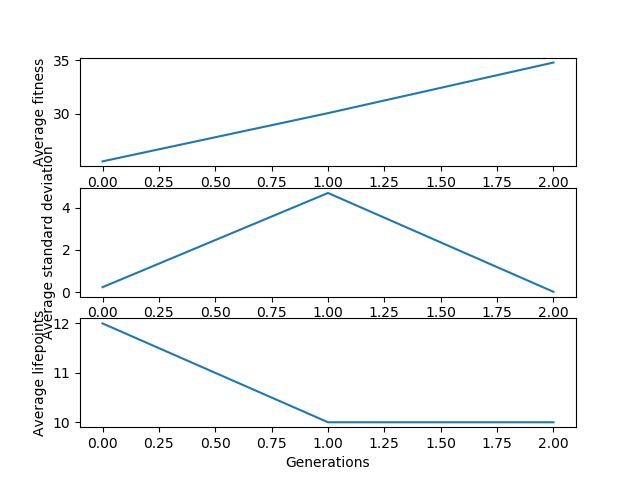
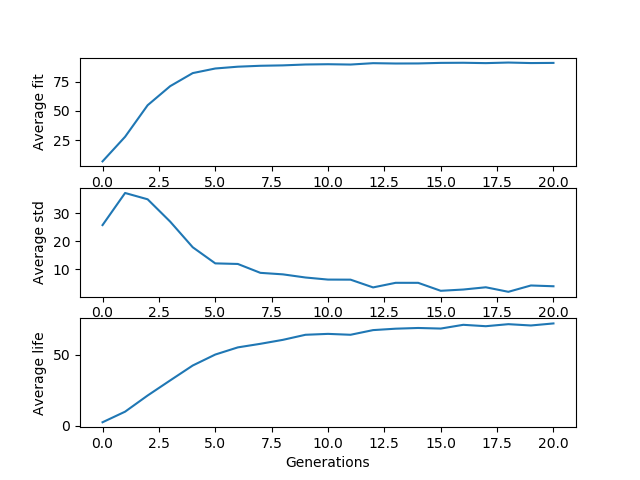
hier

diff --git a/Milou_offi.py b/Milou_offi.py
@@ -15,16 +15,17 @@ import numpy as np
 import matplotlib.pyplot as plt
 
 
+
 # set seed, which mode and name experiment
 run_mode = 'train'
 experiment_name = 'offi_Milou'
-enemy = 2 
+enemies = [1,2,3]
 if not os.path.exists(experiment_name):
     os.makedirs(experiment_name)
 
 # initializes environment with ai player using random controller, playing against static enemy
 env = Environment(experiment_name=experiment_name,
-                  enemies=[enemy],
+                  enemies=[3],
                   playermode='ai',
                   player_controller=player_controller(),
                   enemymode='static',
@@ -32,11 +33,11 @@ env = Environment(experiment_name=experiment_name,
                   speed='fastest')
 
 #global vars
-n_train_simulations = 3
+n_train_simulations = 10
 n_hidden = 10
-n_pop = 2
+n_pop = 50
 n_weights = (env.get_num_sensors()+1)*n_hidden + (n_hidden+1)*5 
-max_gens = 2
+max_gens = 20
 noimprovement = 0
 low_bound = -1
 upper_bound = 1
@@ -134,15 +135,35 @@ tlbx.register('Doomsday', Doomsday)
 ###################################### End functions ########################################
 
 # if test mode
-if run_mode =='test':
+# if run_mode =='test':
+#     df = pd.DataFrame(index= [np.arange(n_train_simulations*2)], columns= (enemies + ['Algorithm']))
 
-    bsol = np.loadtxt(experiment_name+'/best.txt')
-    print(bsol)
-    print( '\n RUNNING SAVED BEST SOLUTION \n')
-    env.update_parameter('speed','normal')
-    tlbx.evaluate(bsol)
+#     for i in range(10):
+#         df[enemy][2*i] = 10 + i
+#         df[enemy][(2*i + 1)] = 11 + i
+        
+#         print(df)
+    
+#     df = pd.DataFrame(columns = ['Algorithm'])
+#     for enemy in enemies:
 
-    sys.exit(0)
+#         df['enemy' + str(enemy)] = 0
+
+#         for i in range(n_train_simulations):
+#             bsol_bart = np.loadtxt('dummy_bart/enemy'+ str(enemy) +'/sim '+ str(i) +'best_solution.txt')
+#             bsol_Milou = np.loadtxt(experiment_name+'/best'+ str(i) + '.txt')
+
+#             df([enemy][2*i] = tlbx.evaluate(bsol_bart)
+#             df[enemy][(2*i + 1)] = = tlbx.evaluate(bsol_Milou)
+#             df['Algorithm'][2*i] = 1
+#             df['Algorithm'][(2*i + 1)] = 2
+
+
+
+#     ax = sns.boxplot(x='enemy', y="Fitness", hue="smoker", data=[f_bart, f_Milou], palette="Set3")
+
+
+    # sys.exit(0)
 
 
 # train mode
@@ -175,7 +196,7 @@ if run_mode == 'train':
         
 
         # saves stats of first gen
-        file_aux  = open(experiment_name+'/results'+ str(i) +'.txt','a')
+        file_aux  = open(experiment_name+'/enemy'+ str(enemies[2])+'results'+ str(i) +'.txt','a')
         file_aux.write('\n\ngen mean std max')
         print( '\n GENERATION '+str(n_gen)+' '+str(round(log[n_gen].get('meanfit'),6))+' '+str(round(log[n_gen].get('stdfit'),6))+' '+str(round(log[n_gen].get('maxfit'),6)))
         file_aux.write('\n'+ str(n_gen)+' '+str(round(log[n_gen].get('meanfit'),6))+' '+str(round(log[n_gen].get('stdfit'),6))+' '+str(round(log[n_gen].get('maxfit'),6))   )
@@ -187,7 +208,7 @@ if run_mode == 'train':
         best = tlbx.clone(ind)
 
         # saves file with the best solution
-        np.savetxt(experiment_name+'/best'+ str(i) +'.txt', best)
+        np.savetxt(experiment_name+'/enemy'+ str(enemies[2])+'best'+ str(i) +'.txt', best)
 
 
         for n_gen in range(max_gens):
@@ -233,7 +254,7 @@ if run_mode == 'train':
             log.record(gen = n_gen, meanfit = np.mean(fits), varfit = np.var(fits), stdfit = np.std(fits), maxfit =  np.max(fits), avelifepoint = np.mean(lifepoint))
             
             # save result
-            file_aux  = open(experiment_name+'/results'+ str(i) +'.txt','a')
+            file_aux  = open(experiment_name+'/enemy'+ str(enemies[2])+'results'+ str(i) +'.txt','a')
             print( '\n GENERATION '+str(n_gen)+' '+str(round(log[n_gen].get('meanfit'),6))+' '+str(round(log[n_gen].get('stdfit'),6))+' '+str(round(log[n_gen].get('maxfit'),6)))
             file_aux.write('\n'+ str(n_gen)+' '+str(round(log[n_gen].get('meanfit'),6))+' '+str(round(log[n_gen].get('stdfit'),6))+' '+str(round(log[n_gen].get('maxfit'),6))   )
             file_aux.close()
@@ -248,7 +269,7 @@ if run_mode == 'train':
                 best = tlbx.clone(ind)
                 
                 # saves file with the best solution
-                np.savetxt(experiment_name+'/best'+ str(i) +'.txt', best)
+                np.savetxt(experiment_name+'/enemy'+ str(enemies[2])+'best'+ str(i) +'.txt', best)
 
             # checks if meanfit keeps improving
             if log[n_gen].get('meanfit') <= log[n_gen - 1].get('meanfit') : 
@@ -270,7 +291,7 @@ if run_mode == 'train':
                 log.record(gen = n_gen, meanfit = np.mean(fits), varfit = np.var(fits), stdfit = np.std(fits), maxfit =  np.max(fits), avelifepoint = np.mean(lifepoint))
             
                 # save result
-                file_aux  = open(experiment_name+'/results'+ str(i) +'.txt','a')
+                file_aux  = open(experiment_name+'/enemy'+ str(enemies[2])+'results'+ str(i) +'.txt','a')
                 print( '\n ~~~~~~~~~~DOOOOOOOOOOOOOOOOOOOOOOOOOOOOOOOOOOOOOOM~~~~~~~~~~')
                 file_aux.write('\n'+ str(n_gen)+' '+str(round(log[n_gen].get('meanfit'),6))+' '+str(round(log[n_gen].get('stdfit'),6))+' '+str(round(log[n_gen].get('maxfit'),6))   )
                 file_aux.close()
@@ -309,7 +330,7 @@ pl[1].set_ylabel('Average std')
 pl[2].plot(Logs[0].select('gen'), lifepoint_average)
 pl[2].set_ylabel('Average life')
 pl[2].set_xlabel('Generations')
-fig.savefig('enemy2.png')
+fig.savefig('enemy3.png')
 
 
 plt.show()
